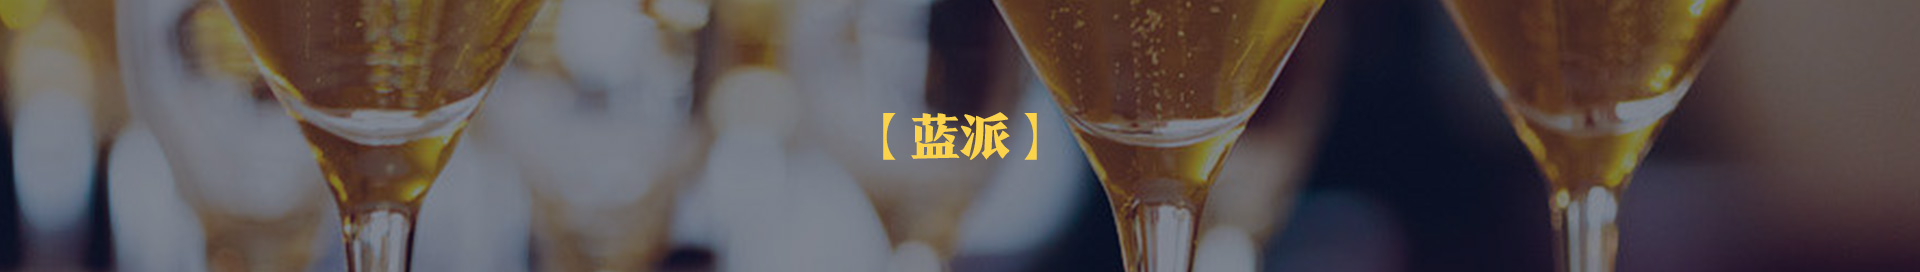
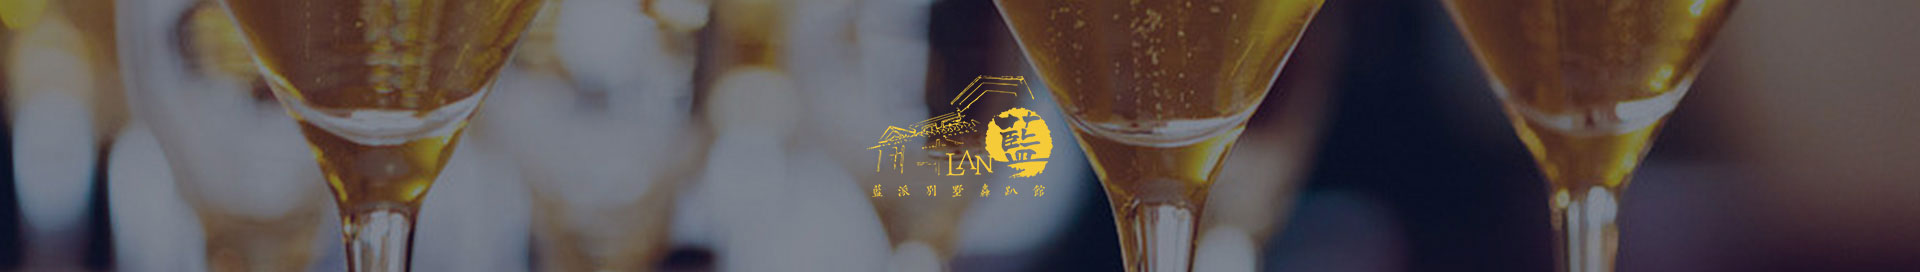
update-0908-16:15

Changed region(s): [[0.4375, 0.2647, 0.5625, 0.6471], [0.4375, 0.6765, 0.5625, 0.7353]]

diff --git a/about.html b/about.html
@@ -68,7 +68,7 @@
           <div class="contactus-info-text">
             <h3>联系我们 / 商务合作</h3>
             <div class="contactus-info-text-left">
-              <p><span></span>Write</br>Us</p>
+              <p><span></span>Email</br>Us</p>
               <p><span></span>Call</br>Us</p>
               <p><span></span>Visit</br>Us</p>
             </div>
@@ -82,27 +82,22 @@
       </div>
     </section>
     <!--伙伴-->
-    <section class="contactus">
-      <h2>Get In Touch.</h2>
-      <div class="contactus-content clearfix">
-        <img src="img/about/contact-bg.jpg" alt="123" class="flyRightAnimate">
-        <article class="contactus-info flyLeftAnimate">
-          <div class="line"></div>
-          <div class="contactus-info-text">
-            <h3>联系我们 / 商务合作</h3>
-            <div class="contactus-info-text-left">
-              <p><span></span>Write</br>Us</p>
-              <p><span></span>Call</br>Us</p>
-              <p><span></span>Visit</br>Us</p>
-            </div>
-            <div class="contactus-info-text-right">
-              <p>hao@lanpai.com</p>
-              <p>021-6565656</p>
-              <p>上海浦东创新大道1号</p>
-            </div>
-          </div>
-        </article>
-      </div>
+    <section class="friends">
+      <h2>Our Friends.</h2>
+      <ul class="clearfix flyLeftAnimate">
+        <li><img src="img/friends/1.jpg" alt="Our Friends"></li>
+        <li><img src="img/friends/2.jpg" alt="Our Friends"></li>
+        <li><img src="img/friends/3.jpg" alt="Our Friends"></li>
+        <li><img src="img/friends/4.jpg" alt="Our Friends"></li>
+        <li><img src="img/friends/5.jpg" alt="Our Friends"></li>
+      </ul>
+      <ul class="clearfix flyRightAnimate">
+        <li><img src="img/friends/10.jpg" alt="Our Friends"></li>
+        <li><img src="img/friends/9.jpg" alt="Our Friends"></li>
+        <li><img src="img/friends/8.jpg" alt="Our Friends"></li>
+        <li><img src="img/friends/7.jpg" alt="Our Friends"></li>
+        <li><img src="img/friends/6.jpg" alt="Our Friends"></li>
+      </ul>
     </section>
   </div>
   <!--页尾-->

diff --git a/css/place.css b/css/place.css
@@ -41,7 +41,12 @@
 }
 
 .topBox header .logo {
-  width: 9rem;
+  width: 5rem;
+  -webkit-transform: translateY(-20%);
+  -moz-transform: translateY(-20%);
+  -ms-transform: translateY(-20%);
+  -o-transform: translateY(-20%);
+  transform: translateY(-20%);
 }
 
 .topBox header nav {
@@ -1956,6 +1961,12 @@ footer .info .info-nr p {
   font-size: 16px;
   line-height: 2.5;
   color: #fff;
+}
+
+.about-container .friends ul li {
+  float: left;
+  margin: 10px;
+
 }
 
 @media only screen and (max-width: 1441px) {

diff --git a/css/index.css b/css/index.css
@@ -385,11 +385,12 @@ header .logo {
   top: 5%;
   left: 5%;
   z-index: 999;
-  width: 9rem;
-  -webkit-transition: all .2s ease-in-out;
-  -moz-transition: all .2s ease-in-out;
-  -o-transition: all .2s ease-in-out;
-  transition: all .2s ease-in-out;
+  width: 5rem;
+  -webkit-transform: translateY(-20%);
+  -moz-transform: translateY(-20%);
+  -ms-transform: translateY(-20%);
+  -o-transform: translateY(-20%);
+  transform: translateY(-20%);
 }
 
 header nav {
